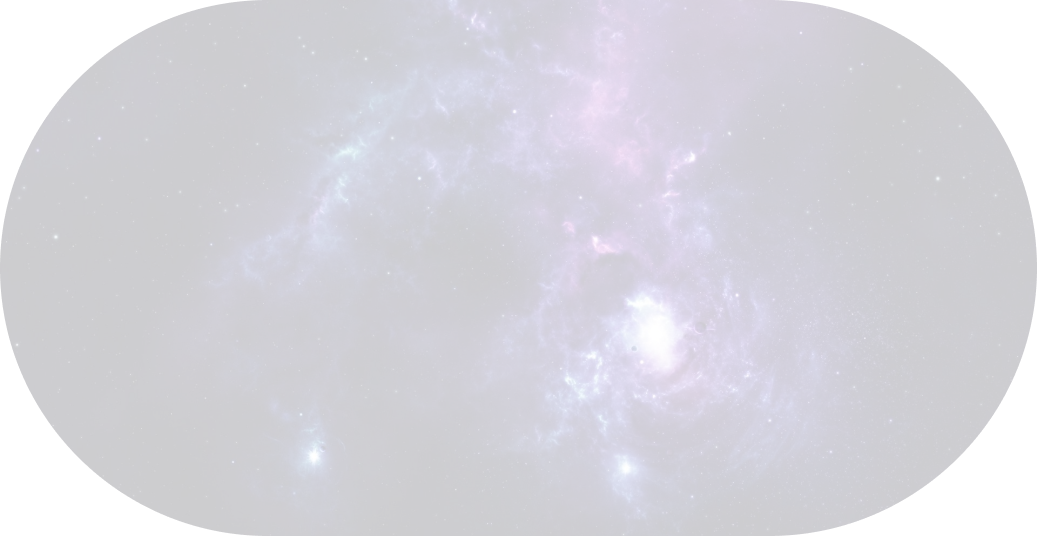
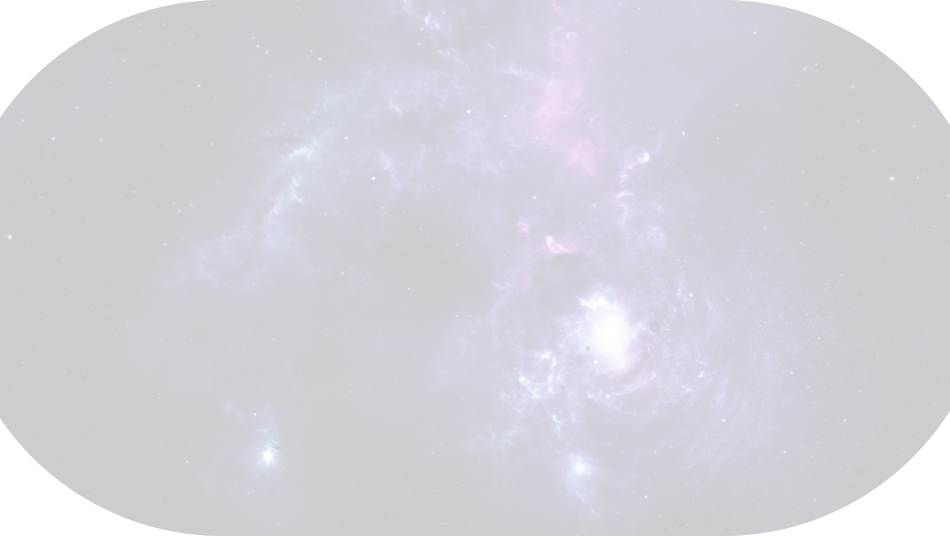
jupiter bg

diff --git a/src/htmlParts/jupiter.html b/src/htmlParts/jupiter.html
@@ -1,9 +1,4 @@
 <section class="jupiter">
-  <picture>
-    <source data-srcset="./images/jupiter-768.png" media="(max-width:950px)">
-    <source data-srcset="./images/jupiter.png">
-      <img data-srcset="./images/jupiter.png" alt="" class="jupiter__img lazyload">
-  </picture>
 
   <picture>
     <source data-srcset="./images/jupiter-bg.png" media="(max-width:950px)">
@@ -12,7 +7,14 @@
 
 
 
-  <div class="jupiter__content">
+  <div class="jupiter__block">
+    <picture>
+      <source data-srcset="./images/jupiter-768.png" media="(max-width:950px)">
+      <source data-srcset="./images/jupiter.png">
+        <img data-srcset="./images/jupiter.png" alt="" class="jupiter__img lazyload">
+    </picture>
+
+    <div class="jupiter__content">
       <h2 class="planet__title jupiter__title">Рев Юпитера</h2>
       <div class="jupiter__container">
         <div class="jupiter__par">
@@ -28,5 +30,9 @@
         </div>
       </div> 
   </div>
+  </div>
+
+
+
   
 </section>

diff --git a/src/scss/jupiter/jupiter.scss b/src/scss/jupiter/jupiter.scss
@@ -5,27 +5,24 @@
 @import './__title/jupiter__title.scss';
 @import './__img/jupiter__img.scss';
 @import './__bg/jupiter__bg.scss';
+@import './__block/jupiter__block.scss';
 
 // $jupiter-width: 1436px;
 
 .jupiter {
-  max-width: 1436px;
-  border: 1px solid red;
+  width: 100%;
+  // max-width: 1436px;
+  // border: 1px solid red;
   margin: 0 auto;
   position: relative;
-  height: 565px;
+  // overflow: hidden;
   // margin-bottom: 40px;
-}
-
-@media screen and (max-width: 1436px) {
-  .jupiter {
-    overflow: hidden;
-    width: 100%;
-  }
 }
 
 @media screen and (max-width: 950px) {
   .jupiter {
-    height: unset;
+    overflow: hidden;
+    margin-top: -200px;
   }
 }
+

diff --git a/src/js/audioVizualization.js b/src/js/audioVizualization.js
@@ -35,13 +35,15 @@ export default function audioVizualization(planet) {
     window.requestAnimationFrame(draw);
   }
   
-  draw();
+  // draw();
 
-  button.addEventListener('click', function() {
-    context.resume().then(() => {
-      console.log('Playback resumed successfully');
-    });
-  });
+  button.addEventListener('click', draw)
+
+  // button.addEventListener('click', function() {
+  //   context.resume().then(() => {
+  //     console.log('Playback resumed successfully');
+  //   });
+  // });
 
 }
 

diff --git a/src/scss/jupiter/__block/jupiter__block.scss b/src/scss/jupiter/__block/jupiter__block.scss
@@ -1,0 +1,21 @@
+.jupiter__block {
+  max-width: 1436px;
+  // border: 1px solid red;
+  margin: 0 auto;
+  position: relative;
+  height: 565px;
+}
+
+@media screen and (max-width: 1436px) {
+  .jupiter__block {
+    overflow: hidden;
+    width: 100%;
+  }
+}
+
+@media screen and (max-width: 950px) {
+  .jupiter__block {
+    height: unset;
+    margin-top: 200px;
+  }
+}

diff --git a/src/index.js b/src/index.js
@@ -12,13 +12,15 @@ const jupiter = document.querySelector('.jupiter');
 const saturn = document.querySelector('.saturn');
 
 new PlaySpaceSound(jupiter);
-new PlaySpaceSound(saturn);
+// new PlaySpaceSound(saturn);
 
 
 window.onload = function() {
   audioVizualization(jupiter);
-  audioVizualization(saturn);
+  // audioVizualization(saturn);
 }
+
+
 
 
 

diff --git a/src/scss/jupiter/__bg/jupiter__bg.scss b/src/scss/jupiter/__bg/jupiter__bg.scss
@@ -1,6 +1,16 @@
 .jupiter__bg {
+  display: none;
   position: absolute;
-  top:0;
-  left:0;
-  border: 1px solid white;
+  top: 0px;
+  left: -200px;
+  opacity: .5;
+  // border: 1px solid white;
+  // width: 100%;
+  // height: 536px;
+}
+
+@media screen and (max-width: 950px) {
+  .jupiter__bg {
+    display: block;
+  }
 }

diff --git a/src/scss/jupiter/__img/jupiter__img.scss b/src/scss/jupiter/__img/jupiter__img.scss
@@ -2,6 +2,7 @@
   position: absolute;
   right: -100px;
   z-index: -1;
+  // border: 1px solid green;
 }
 
 @media screen and (max-width: 1220px) {
